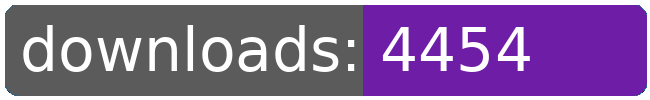
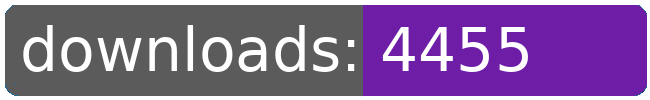
dl log written

Changed region(s): [[0.7692, 0.27, 0.8308, 0.72]]

diff --git a/README.md b/README.md
@@ -21,8 +21,8 @@
 		<td>4383</td>
 		<td>4410</td>
 		<td>4436</td>
-		<td>4454</td>
-		<td>+ 18</td>
+		<td>4455</td>
+		<td>+ 19</td>
 	</tr>
 	<tr>
 		<td>aberrant.kahet.outfitter</td>
@@ -274,8 +274,8 @@
 		<td></td>
 		<td></td>
 		<td></td>
-		<td>66776</td>
-		<td>298</td>
+		<td>66777</td>
+		<td>299</td>
 	</tr>
 </table>
 </sub></sup>
@@ -311,8 +311,8 @@
 		<td>4383</td>
 		<td>4410</td>
 		<td>4436</td>
-		<td>4454</td>
-		<td>+ 18</td>
+		<td>4455</td>
+		<td>+ 19</td>
 	</tr>
 	<tr>
 		<td>bunrodeaoutfitter</td>
@@ -553,8 +553,8 @@
 		<td></td>
 		<td></td>
 		<td></td>
-		<td>66776</td>
-		<td>298</td>
+		<td>66777</td>
+		<td>299</td>
 	</tr>
 </table>
 </sub></sup>
